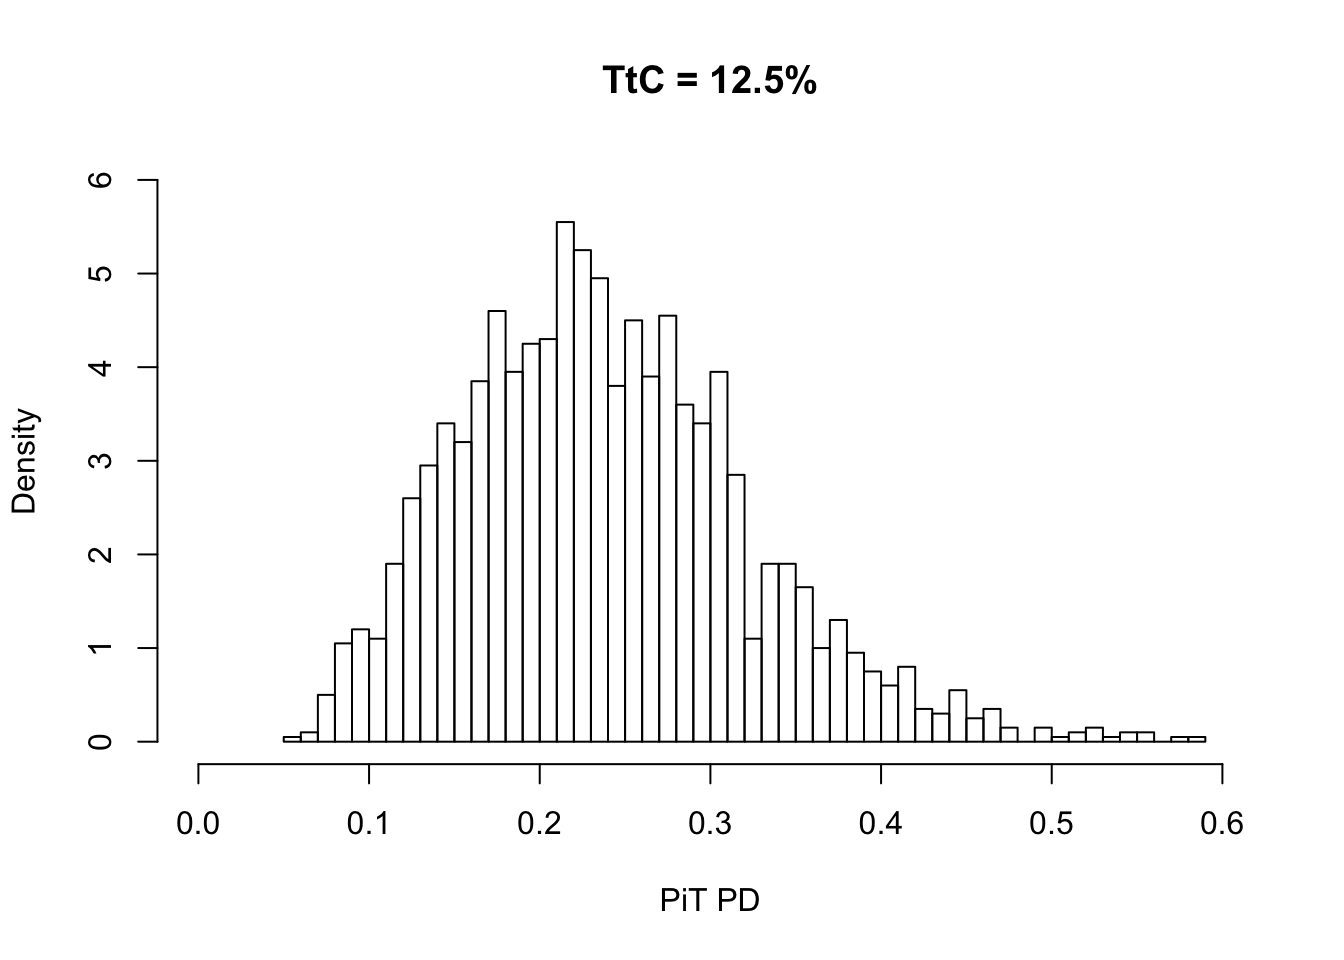
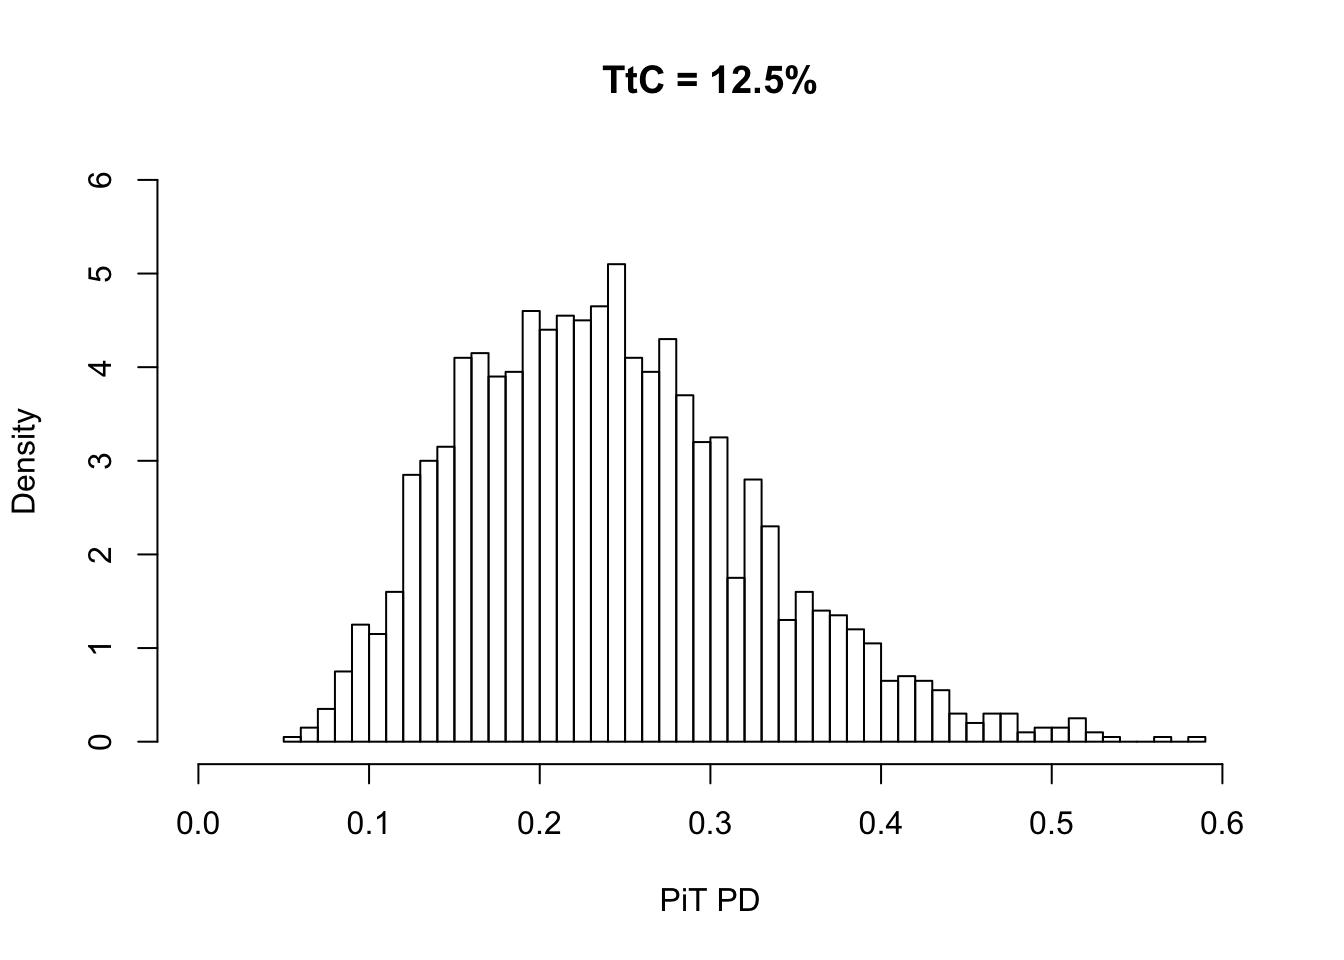
improve ASRF

diff --git a/ASRF.html b/ASRF.html
@@ -571,9 +571,9 @@ for(i in 1:length(rho_candidate)) {
 }
 rho &lt;- calibration_process[which(calibration_process[,2]==max(calibration_process[,2])),1]
 PiT_empirical_q &lt;- Vasicek_ICDF(CI=empirical_q, IRB=avg_IRB_PD, AC=rho)
-plot(avg_IRB_PD, type=&#39;l&#39;, ylim=c(0,0.1), ylab = &quot;PD&quot;, xlab = &quot;Period&quot;)
-lines(default_rate, col=&#39;red&#39;)
-lines(PiT_empirical_q, col=&#39;orange&#39;)
+plot(avg_IRB_PD, type=&#39;l&#39;, ylim=c(0,0.1), ylab = &quot;PD&quot;, xlab = &quot;Period&quot;, lwd=2)
+lines(default_rate, col=&#39;red&#39;, lwd=2)
+lines(PiT_empirical_q, col=&#39;orange&#39;, lwd=2)
 legend(x=16, y=0.1, c(&quot;IRB TtC PD&quot;, &quot;Observed Default rate&quot;,&quot;PiT empirical quantile&quot;),col=c(&quot;black&quot;,&quot;red&quot;,&quot;orange&quot;),lty=c(1,1,1))</code></pre>
 <p><img src="ASRF_files/figure-html/unnamed-chunk-1-1.png" width="672" /></p>
 <pre class="r"><code>cat(paste0(&quot;The calibrated asset correlation is: &quot;,rho*100,&quot;% \n&quot;))</code></pre>
@@ -603,10 +603,10 @@ legend(x=16, y=0.1, c(&quot;IRB TtC PD&quot;, &quot;Observed Default rate&quot;,
     down_bound[i] &lt;- qbinom(0.025, static_size,IRB_PD[i])/static_size
     up_bound[i] &lt;- qbinom(0.975, static_size,IRB_PD[i])/static_size
   }
-  plot(IRB_PD, type=&#39;l&#39;, ylim = c(0.01,0.1))
-  lines(odr, col=&#39;red&#39;)
-  lines(down_bound, lty=2)
-  lines(up_bound,lty=2)
+  plot(IRB_PD, type=&#39;l&#39;, ylim = c(0.01,0.1), lwd=2)
+  lines(odr, col=&#39;red&#39;, lwd=2)
+  lines(down_bound, lty=2, lwd=2)
+  lines(up_bound,lty=2, lwd=2)
 }
 
 binomial_bounds(static_size=1000)</code></pre>
@@ -617,7 +617,7 @@ binomial_bounds(static_size=1000)</code></pre>
 <div id="rho-and-pit-distribution-shape" class="section level3">
 <h3>7. <span class="math inline">\(\rho\)</span> and PiT distribution shape</h3>
 <p>The histagrams shows that as the <span class="math inline">\(\rho\)</span> increase, the distribution becomes more flat tailed.</p>
-<pre class="r"><code>rho &lt;- c(0.02,0.07,0.18)
+<pre class="r"><code>rho &lt;- c(0.01,0.05,0.12)
 ttc &lt;- 0.05
 n &lt;- 2000
 z &lt;- rnorm(n, mean=0, sd=1)
@@ -627,19 +627,20 @@ for(i in 1:n){
   pit[i,2] &lt;- pnorm((qnorm(ttc)-sqrt(rho[2])*z[i])/sqrt(1-rho[2]),0,1)
   pit[i,3] &lt;- pnorm((qnorm(ttc)-sqrt(rho[3])*z[i])/sqrt(1-rho[3]),0,1)
 }
-
-hist(pit[,1], breaks=40,freq=FALSE, ylim=c(0,40), xlim=c(0,0.25), xlab=&#39;PiT PD&#39;, main = &#39;rho = 2%&#39;)</code></pre>
+par(mfrow=c(2,2))
+hist(pit[,1], breaks=20,freq=FALSE, ylim=c(0,50), xlim=c(0,0.15), xlab=&#39;PiT PD&#39;, main = &#39;rho = 1%&#39;)
+abline(v = ttc, col=&quot;red&quot;, lwd=2, lty=2)
+hist(pit[,2], breaks=30, freq=FALSE, ylim=c(0,40), xlim=c(0,0.15), xlab=&#39;PiT PD&#39;, main = &#39;rho = 6%&#39;)
+abline(v = ttc, col=&quot;red&quot;, lwd=2, lty=2)
+hist(pit[,3], breaks=50, freq=FALSE, ylim=c(0,40), xlim=c(0,0.15), xlab=&#39;PiT PD&#39;, main = &#39;rho = 10%&#39;)
+abline(v = ttc, col=&quot;red&quot;, lwd=2, lty=2)</code></pre>
 <p><img src="ASRF_files/figure-html/unnamed-chunk-3-1.png" width="672" /></p>
-<pre class="r"><code>hist(pit[,2], breaks=40, freq=FALSE, ylim=c(0,40), xlim=c(0,0.25), xlab=&#39;PiT PD&#39;, main = &#39;rho = 7%&#39;)</code></pre>
-<p><img src="ASRF_files/figure-html/unnamed-chunk-3-2.png" width="672" /></p>
-<pre class="r"><code>hist(pit[,3], breaks=50, freq=FALSE, ylim=c(0,40), xlim=c(0,0.25), xlab=&#39;PiT PD&#39;, main = &#39;rho = 18%&#39;)</code></pre>
-<p><img src="ASRF_files/figure-html/unnamed-chunk-3-3.png" width="672" /></p>
 </div>
 <div id="pd_ttc-and-variability" class="section level3">
 <h3>8. <span class="math inline">\(PD_{TtC}\)</span> and variability</h3>
 <p>The histagram shows that the shape of PiT PD distributions are quite different given the same <span class="math inline">\(\rho\)</span> but different <span class="math inline">\(PD_{TtC}\)</span>. Therefore, for different PD rating <span class="math inline">\(r_{i}\)</span> (different <span class="math inline">\(PD_{TtC}\)</span>), the <span class="math inline">\(\rho_{r_i}\)</span> should be different to have the same shape.</p>
-<pre class="r"><code>rho &lt;- 0.075
-ttc &lt;- c(0.02,0.05,0.24)
+<pre class="r"><code>rho &lt;- 0.04
+ttc &lt;- c(0.01,0.06,0.24)
 n &lt;- 2000
 z &lt;- rnorm(n, mean=0, sd=1)
 pit &lt;- matrix(nrow=n,ncol=3)
@@ -648,13 +649,14 @@ for(i in 1:n){
   pit[i,2] &lt;- pnorm((qnorm(ttc[2])-sqrt(rho)*z[i])/sqrt(1-rho),0,1)
   pit[i,3] &lt;- pnorm((qnorm(ttc[3])-sqrt(rho)*z[i])/sqrt(1-rho),0,1)
 }
-
-hist(pit[,1], breaks=40, freq=FALSE, ylim=c(0,50), xlim=c(0,0.25), xlab=&#39;PiT PD&#39;, main = &#39;TtC = 2.5%&#39;)</code></pre>
+par(mfrow=c(2,2))
+hist(pit[,1], breaks=30, freq=FALSE, ylim=c(0,100), xlim=c(0,0.05), xlab=&#39;PiT PD&#39;, main = &#39;TtC = 1%&#39;)
+abline(v = ttc[1], col=&quot;red&quot;, lwd=2, lty=2)
+hist(pit[,2], breaks=30, freq=FALSE, ylim=c(0,30), xlim=c(0,0.25), xlab=&#39;PiT PD&#39;, main = &#39;TtC = 6%&#39;)
+abline(v = ttc[2], col=&quot;red&quot;, lwd=2, lty=2)
+hist(pit[,3], breaks=30, freq=FALSE, ylim=c(0,8), xlim=c(0,0.6), xlab=&#39;PiT PD&#39;, main = &#39;TtC = 24%&#39;)
+abline(v = ttc[3], col=&quot;red&quot;, lwd=2, lty=2)</code></pre>
 <p><img src="ASRF_files/figure-html/unnamed-chunk-4-1.png" width="672" /></p>
-<pre class="r"><code>hist(pit[,2], breaks=40, freq=FALSE, ylim=c(0,20), xlim=c(0,0.25), xlab=&#39;PiT PD&#39;, main = &#39;TtC = 5%&#39;)</code></pre>
-<p><img src="ASRF_files/figure-html/unnamed-chunk-4-2.png" width="672" /></p>
-<pre class="r"><code>hist(pit[,3], breaks=40, freq=FALSE, ylim=c(0,6), xlim=c(0,0.6), xlab=&#39;PiT PD&#39;, main = &#39;TtC = 12.5%&#39;)</code></pre>
-<p><img src="ASRF_files/figure-html/unnamed-chunk-4-3.png" width="672" /></p>
 </div>
 <div id="pit-non-default-migration" class="section level3">
 <h3>9. PiT non-default migration</h3>
